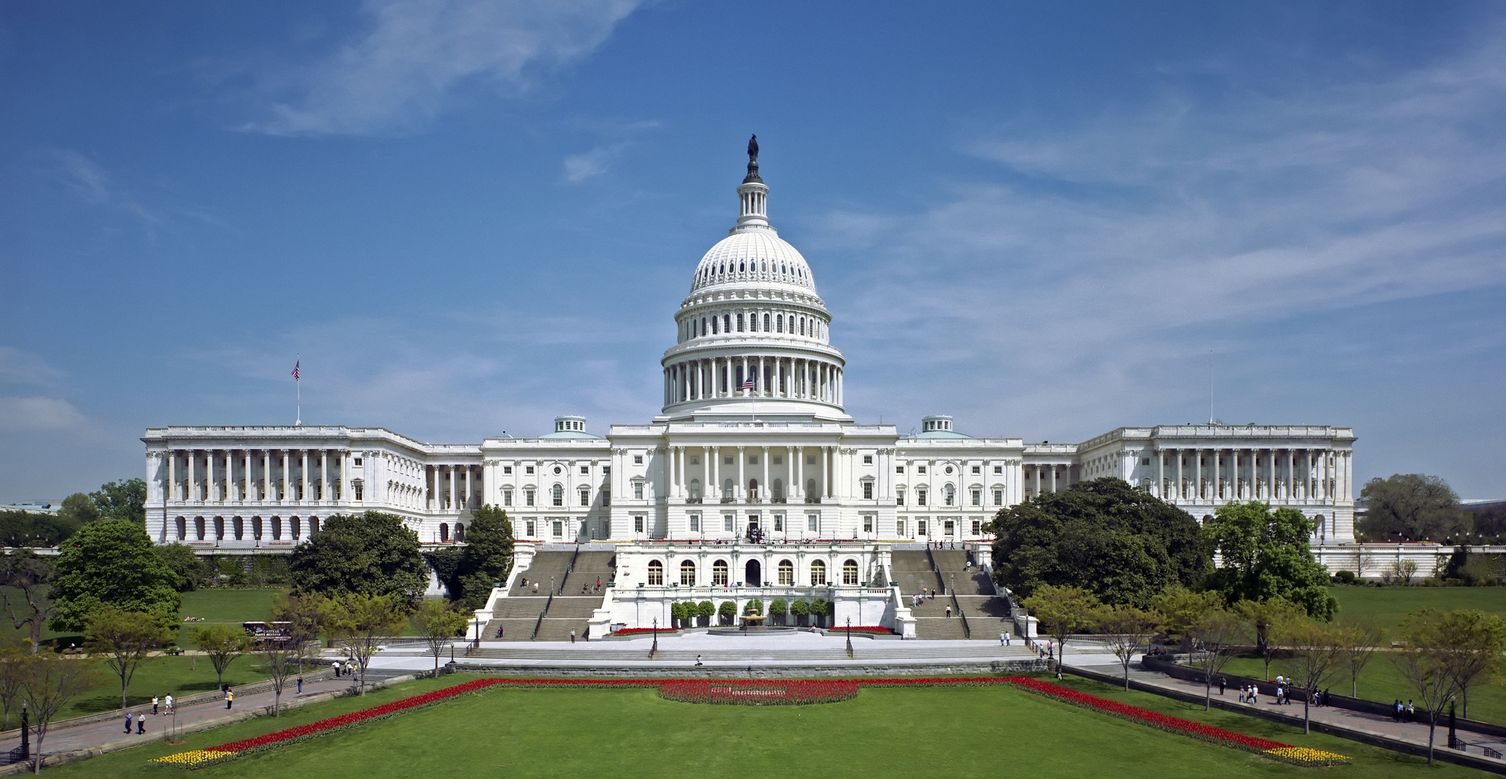
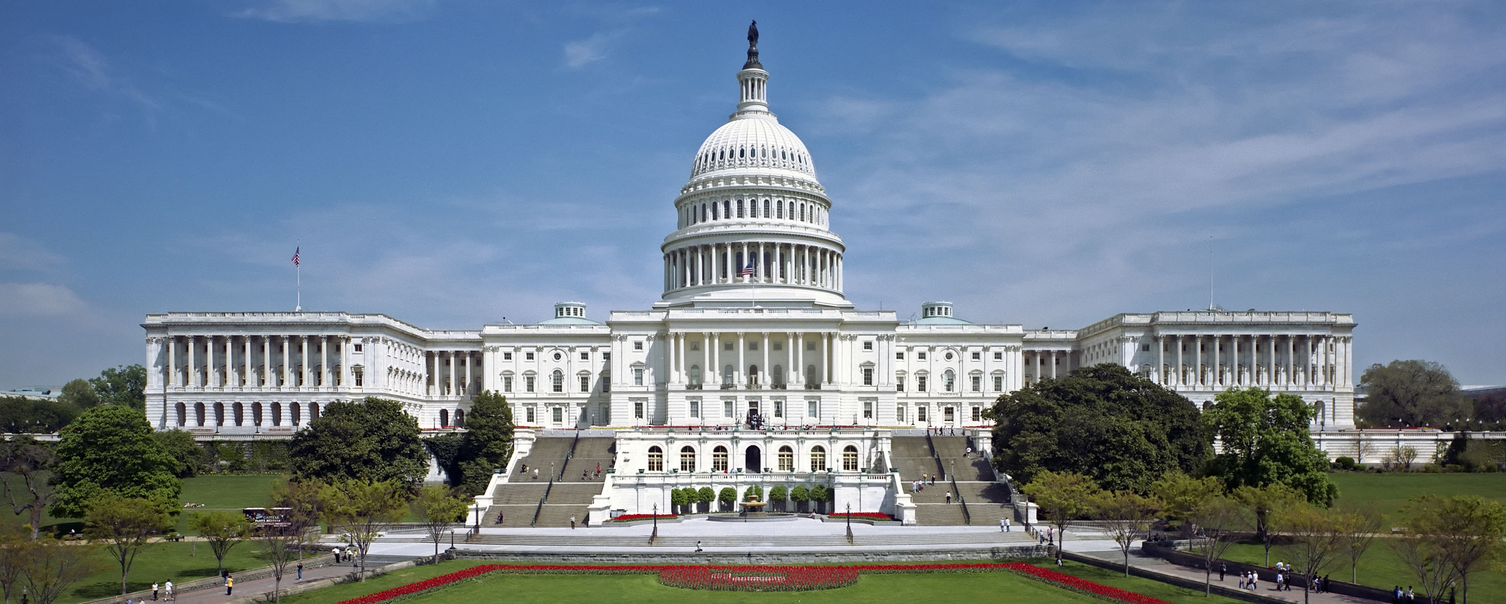
made alternate website without slideshow

diff --git a/index.html b/index.html
@@ -9,7 +9,7 @@
     <link rel="stylesheet" href="assets/css/stylesheet.css" media="screen">
     <link rel="stylesheet" href= "assets/css/font-awesome-4.2.0/css/font-awesome.min.css">
     <link rel="shortcut icon" href="assets/images/NYTDevLogo.png" type="image/x-icon" />
-    <link href='http://fonts.googleapis.com/css?family=Playfair+Display+SC|Lato|Roboto|Forum|Rock+Salt' rel='stylesheet' type='text/css'>
+    <link href='http://fonts.googleapis.com/css?family=Playfair+Display+SC|Lato|Roboto|Forum|Rock+Salt|Abril+Fatface' rel='stylesheet' type='text/css'>
 
     <script src="http://ajax.googleapis.com/ajax/libs/jquery/1.11.1/jquery.min.js"></script>
     <script src="assets/js/main.js"></script>
@@ -34,55 +34,17 @@
     <div id="homepage" class="container">
 
       <!-- page Header -->
-      <div id="pageHeader">
-        <!-- <div class="jumbotron"> -->
-        <div class="page-header">
-          <h1 class="text-center">//noComment <small>Explore congressional data</small></h1>
+      <div id = "pageWelcome">
+        <div class = "col-xs-12 text-center">
+          <h1>//noComment<br><small>Explore local and state-wide congressional data</small></h1>
+        </div>
+        <img id = "capitalHill" width='100%' src = "assets/images/congress1.png">
+        <div>
+          <a href="#zipCodeDiv"><h4 class = "col-xs-12 col-sm-6 text-center">Find Congress Members</h4></a>
+          <a href="#recentBillsDiv"><h4 class = "col-xs-12 col-sm-6 text-center">Recent Bills Passed</h4></a>
         </div>
       </div>
       <!-- End Page Header -->
-
-      <!-- begin carousel -->
-      <div id="carousel" class="carousel slide" data-ride="carousel" data-interval=5000>
-        <!-- Indicators -->
-        <ol class="carousel-indicators">
-          <li data-target="#carousel" data-slide-to="0" class="active"></li>
-          <li data-target="#carousel" data-slide-to="1"></li>
-         <li data-target="#carousel" data-slide-to="2"></li>
-        </ol>
-
-        <!-- Wrapper for slides -->
-        <div class="carousel-inner">
-          <div class="item active">
-            <img src="assets/images/Capital.jpg" alt="Congress1">
-            <div class="carousel-caption">
-                <h1><a class = "goToSection" href="#toolTipAndMap">MAP</a></h1>
-            </div>
-          </div>
-          <div class="item">
-            <img src="assets/images/Capital.jpg" alt="Congress2">
-            <div class="carousel-caption">
-               <h1><a class = "goToSection" href="#zipCodeDiv">ZIP</a></h1>
-            </div>
-          </div>
-          <div class="item">
-            <img src="assets/images/Capital.jpg"  alt="Congress3">
-            <div class="carousel-caption">
-                <h1><a class = "goToSection" href="#recentBillsDiv">BILLS</a></h1>
-            </div>
-          </div>
-        </div>
-
-        <!-- Controls -->
-        <a class="left carousel-control" href="#carousel" role="button" data-slide="prev">
-         <span class="glyphicon glyphicon-chevron-left"></span>
-        </a>
-        <a class="right carousel-control" href="#carousel" role="button" data-slide="next">
-         <span class="glyphicon glyphicon-chevron-right"></span>
-       </a>
-      </div>
-      <!-- End Carousel -->
-
 
       <div class="row" id="blankspace"><hr style="border-color:lightGrey"></div>
       <!-- zipcode div -->
@@ -161,7 +123,7 @@
 
     <!-- REPRESENTATIVE PAGE CONTAINER -->
     <div id="repPage" class="hide">
-        <img id = "capitalHill" width='100%' src = "assets/images/capital_hill.jpg">
+        <img id = "flag" class="col-xs-12 col-sm-8 col-sm-offset-2 col-md-6 col-md-offset-3" width='100%' src = "assets/images/congress1.png">
         <div id="page" class="col-xs-12 col-sm-8 col-sm-offset-2 col-md-6 col-md-offset-3">
             <h1 id="name" class="text-center"><span id="firstName"></span> <span id="lastName"></span></h1>
             <div id = "facts" class="section">

diff --git a/assets/css/stylesheet.css b/assets/css/stylesheet.css
@@ -28,6 +28,29 @@ a:hover{
 
 /* HOMEPAGE CSS */
 
+#pageWelcome{
+    border-radius: 2em;
+    margin: 2em 0 15em;
+}
+
+#pageWelcome img{
+    width: 100%;
+    height: auto;
+    margin-bottom: 1.5em;
+    left: 0;
+    top: 0;
+}
+
+#pageWelcome div{
+    border-radius: 0 0 2em 2em;
+    left: 0;
+    bottom: 0;
+}
+
+#pageWelcome div h1{
+    margin-bottom: 1em;
+}
+
 #blankspace{
     height:45px;
 }
@@ -36,34 +59,9 @@ a:hover{
     padding-bottom: 10px;
 }
 
-
 .container{
     background-color: white;
     display: none;
-}
-
-
-.jumbotron{
-    background-color: transparent;
-    padding-top: 15px;
-    color:white;
-    border-color: gray;
-}
-
-.carousel{
-    margin-bottom: 10em;
-}
-
-.goToSection{
-    color: white;
-}
-
-.goToSection:hover{
-    color: black;
-}
-
-.carousel-control{
-    z-index: 100;
 }
 
 #zipSubmit{
@@ -178,17 +176,10 @@ li div .btn:hover, li div .btn-info:hover{
     padding-right: 15px;
 }
 
-#capitalHill {
-    position: relative;
-    opacity: .85;
-}
-
 #page {
-    position: absolute;
-    top: 10%;
     background-color: white !important;
     border-radius: 25px;
-    border: 1px black dotted;
+    border: 3px black double;
     margin-bottom: 10em;
 }
 

diff --git a/assets/js/main.js b/assets/js/main.js
@@ -7,7 +7,7 @@ $(document).ready(function() {
 
 
     //$('a[href*=#]:not([href=#])').click(function() {
-    $('.goToSection').click(function() {
+    $('#pageWelcome div a').click(function() {
         if (location.pathname.replace(/^\//,'') == this.pathname.replace(/^\//,'') && location.hostname == this.hostname) {
           var target = $(this.hash);
           target = target.length ? target : $('[name=' + this.hash.slice(1) +']');
@@ -19,6 +19,7 @@ $(document).ready(function() {
           }
         }
     });
+
 });
 
 
